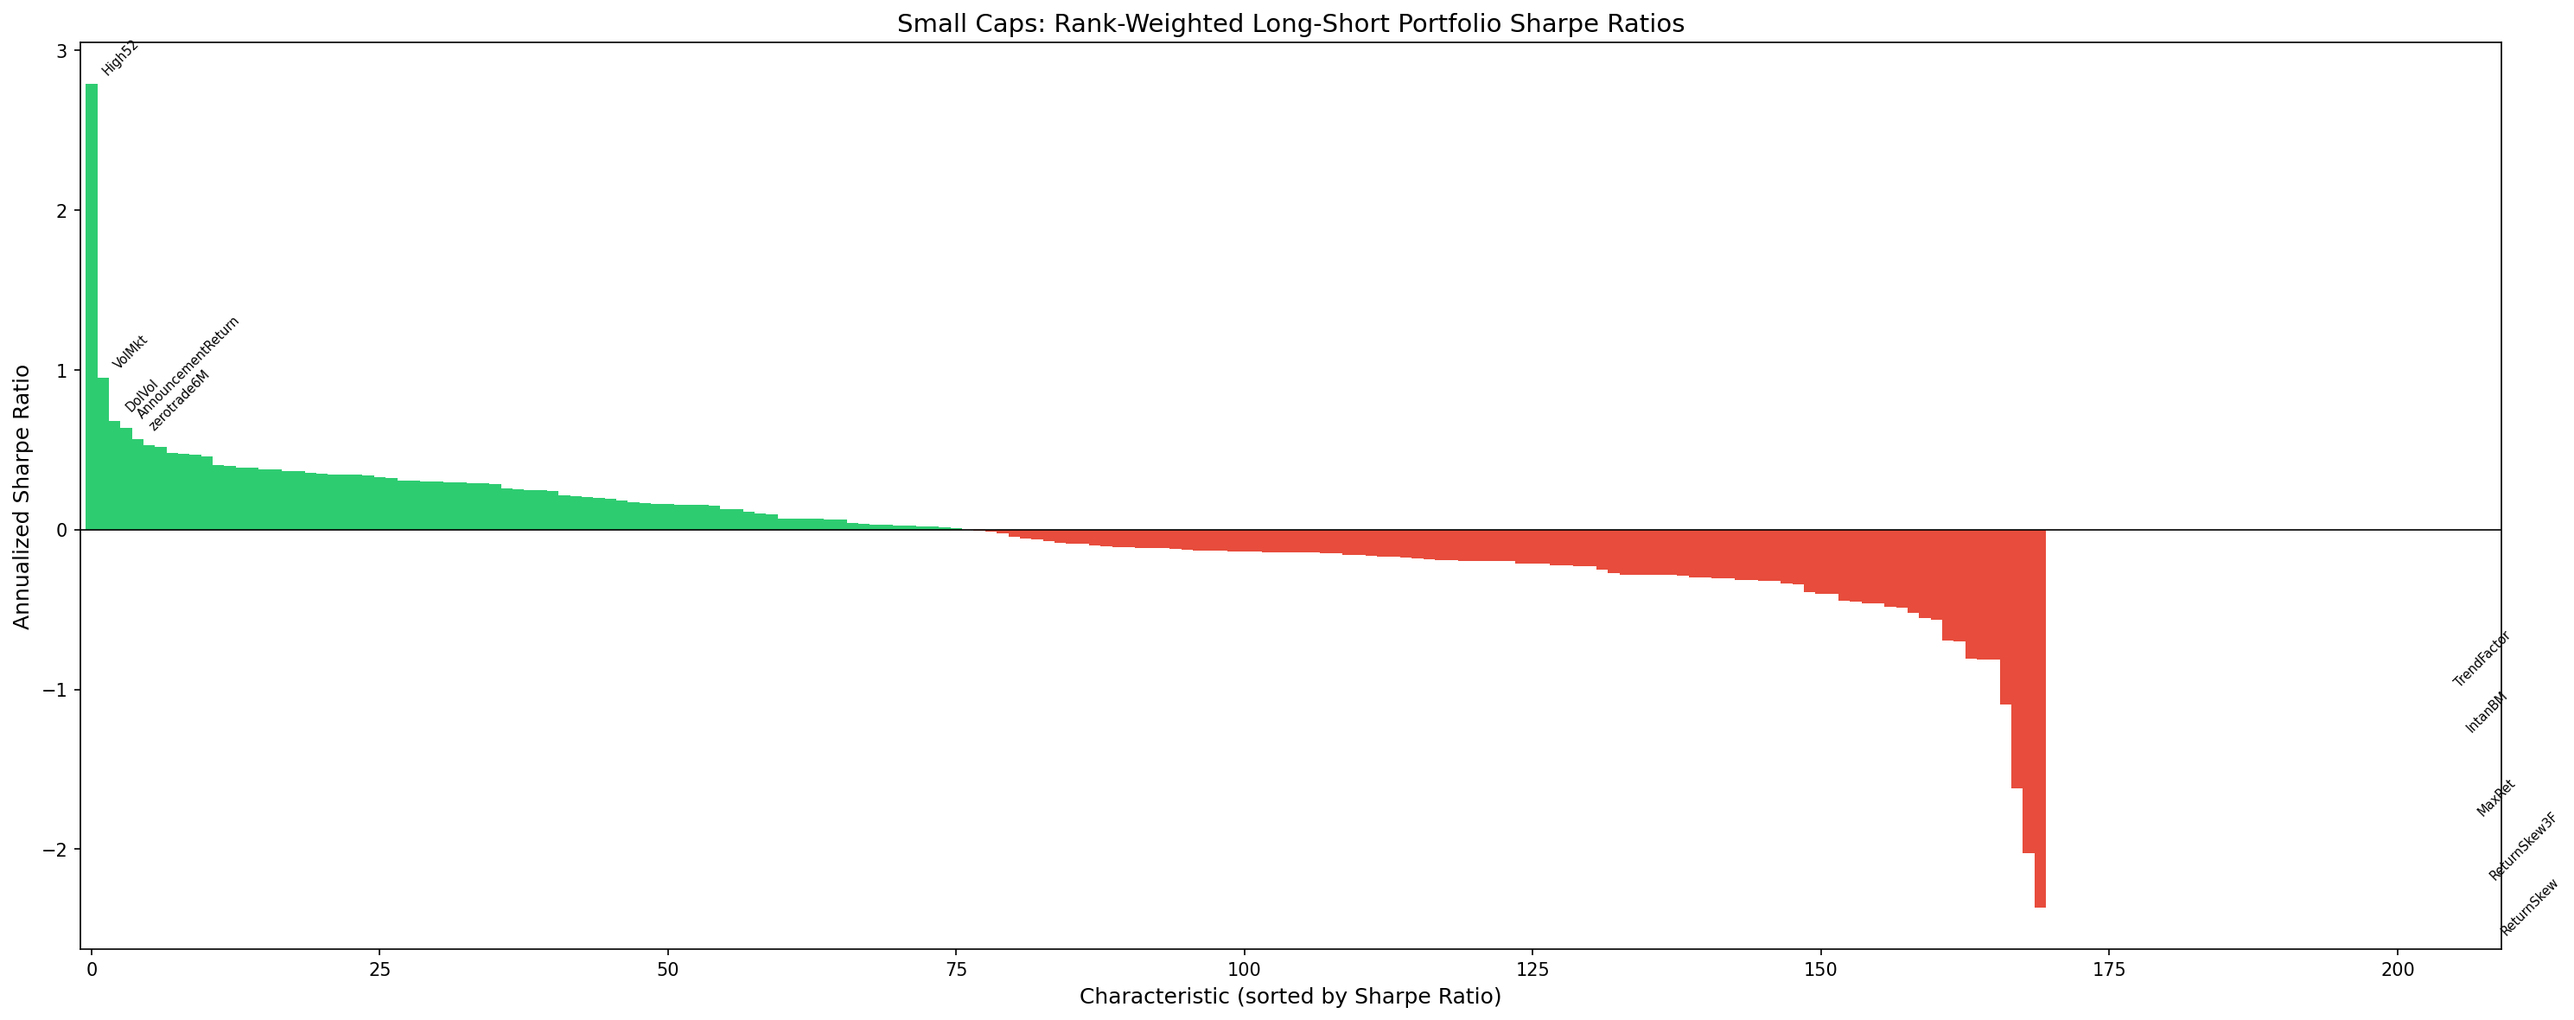
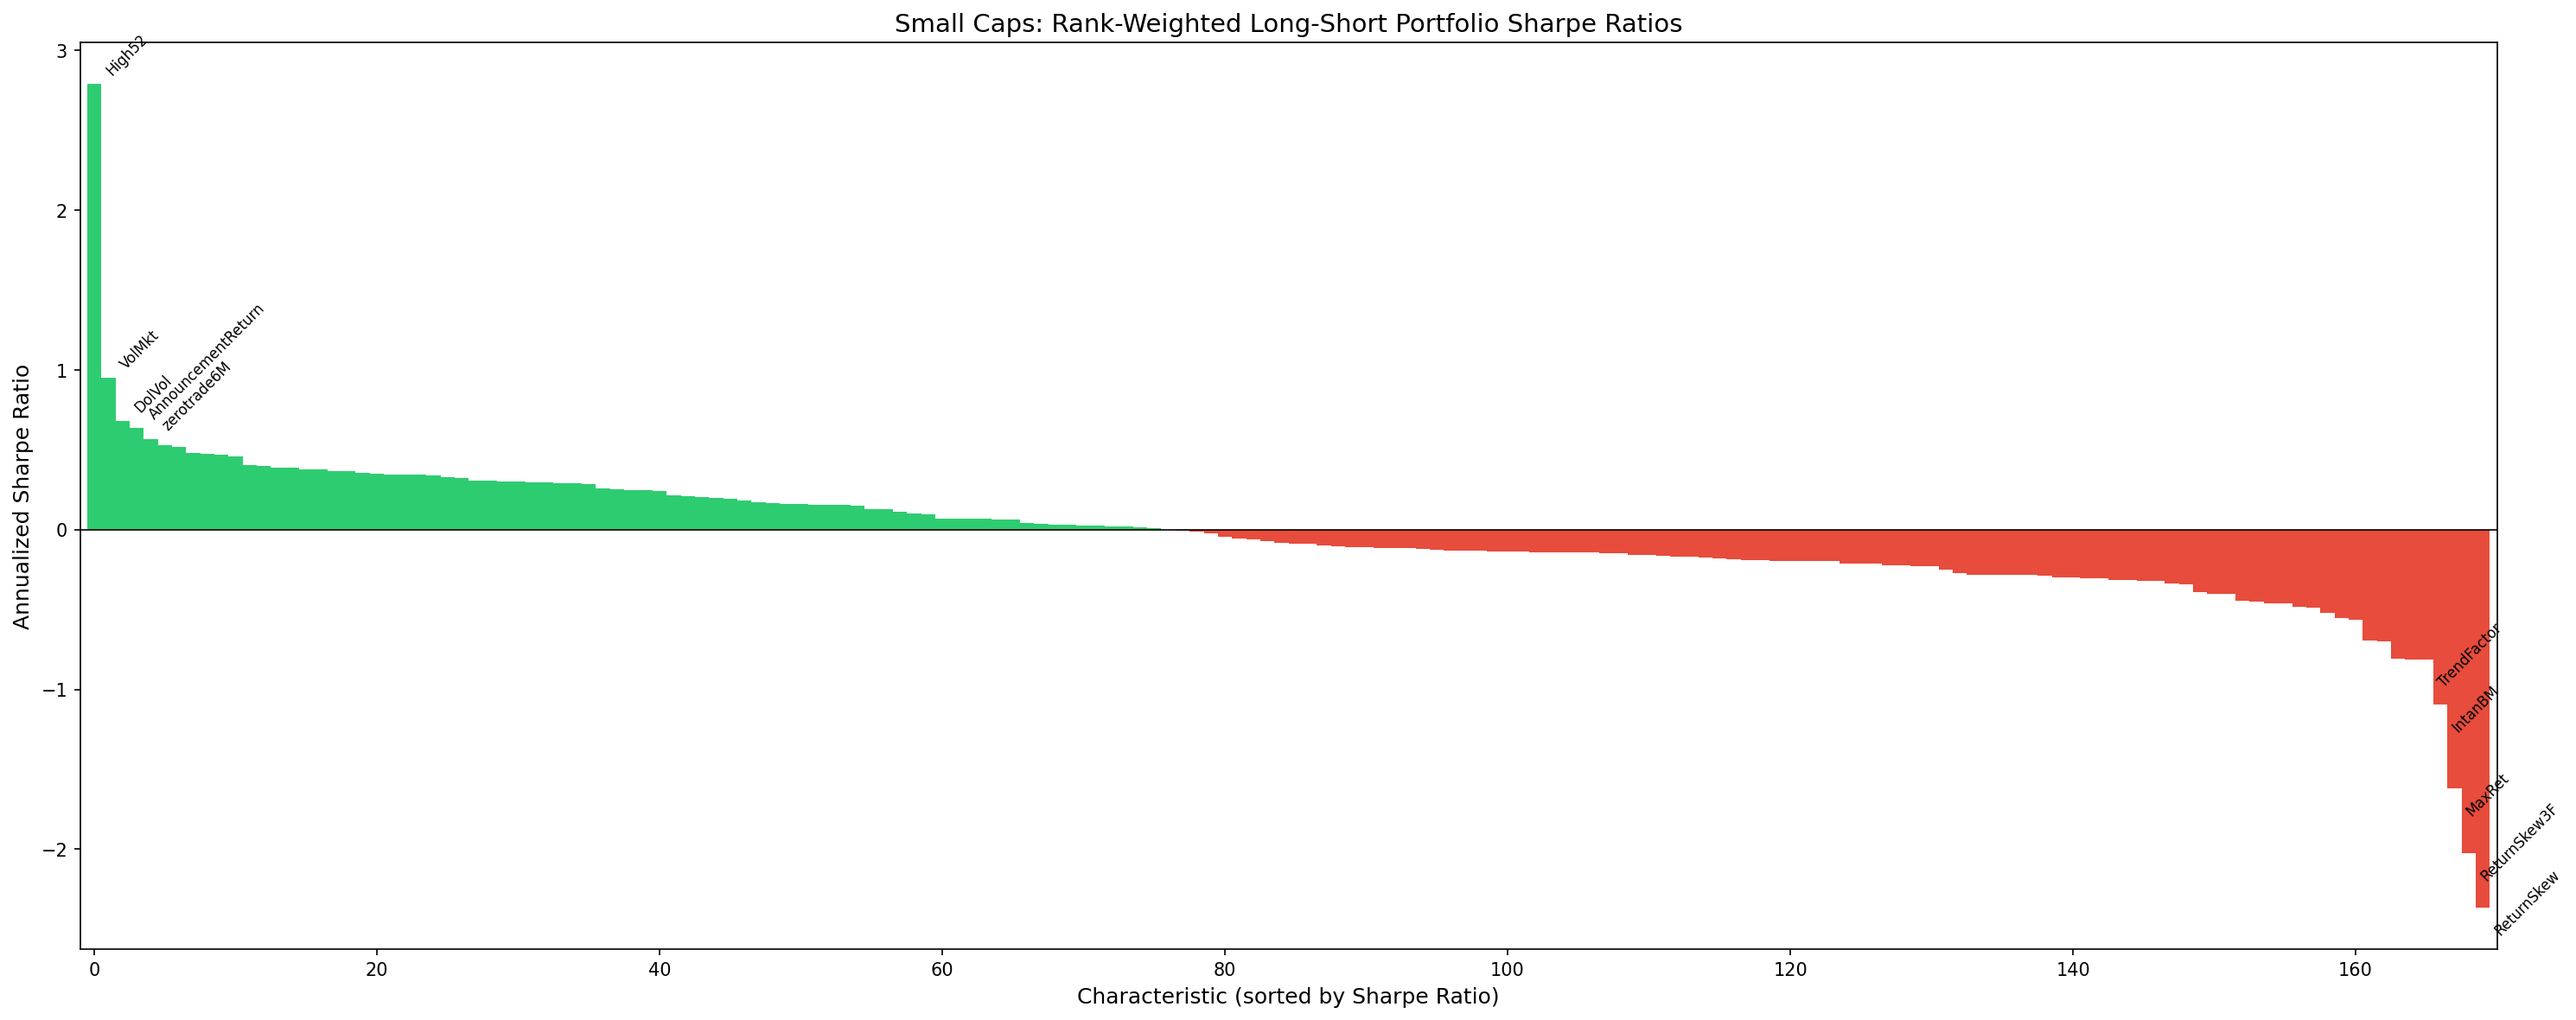
revise task a graph

diff --git a/task_a_small.py b/task_a_small.py
@@ -104,9 +104,13 @@ print(f"  Median Sharpe: {valid['sharpe'].median():.3f}")
 
 
 # ── 5. Bar plot ──────────────────────────────────────────────────────────────
+
+plot_df = res_df.dropna(subset=["sharpe"])
+
 fig, ax = plt.subplots(figsize=(20, 8))
 colors = ["#2ecc71" if s > 0 else "#e74c3c" for s in res_df["sharpe"].values]
-ax.bar(range(len(res_df)), res_df["sharpe"].values, color=colors, width=1.0, edgecolor="none")
+
+ax.bar(range(len(plot_df)), plot_df["sharpe"].values, color=colors, width=1.0, edgecolor="none")
 
 ax.set_xlabel("Characteristic (sorted by Sharpe Ratio)", fontsize=12)
 ax.set_ylabel("Annualized Sharpe Ratio", fontsize=12)
@@ -116,17 +120,21 @@ ax.axhline(y=0, color="black", linewidth=0.8)
 # Annotate top 5 and bottom 5
 top5 = res_df.head(5)
 bot5 = valid.tail(5)
+
 for idx, (char, row) in enumerate(top5.iterrows()):
     ax.annotate(char, (idx, row["sharpe"]),
                 textcoords="offset points", xytext=(5, 5),
-                fontsize=7, rotation=45, ha="left")
+                fontsize=8, rotation=45, ha="left")
+
+# Bottom 5 annotation
 for idx_offset, (char, row) in enumerate(bot5.iterrows()):
-    pos = len(res_df) - 5 + idx_offset
+    pos = len(plot_df) - 5 + idx_offset
+    
     ax.annotate(char, (pos, row["sharpe"]),
                 textcoords="offset points", xytext=(5, -15),
-                fontsize=7, rotation=45, ha="left")
+                fontsize=8, rotation=45, ha="left")
 
-ax.set_xlim(-1, len(res_df))
+ax.set_xlim(-1, len(plot_df))
 plt.tight_layout()
 plt.savefig("task_a_small_sharpe_ratios.png", dpi=150, bbox_inches="tight")
 plt.show()
